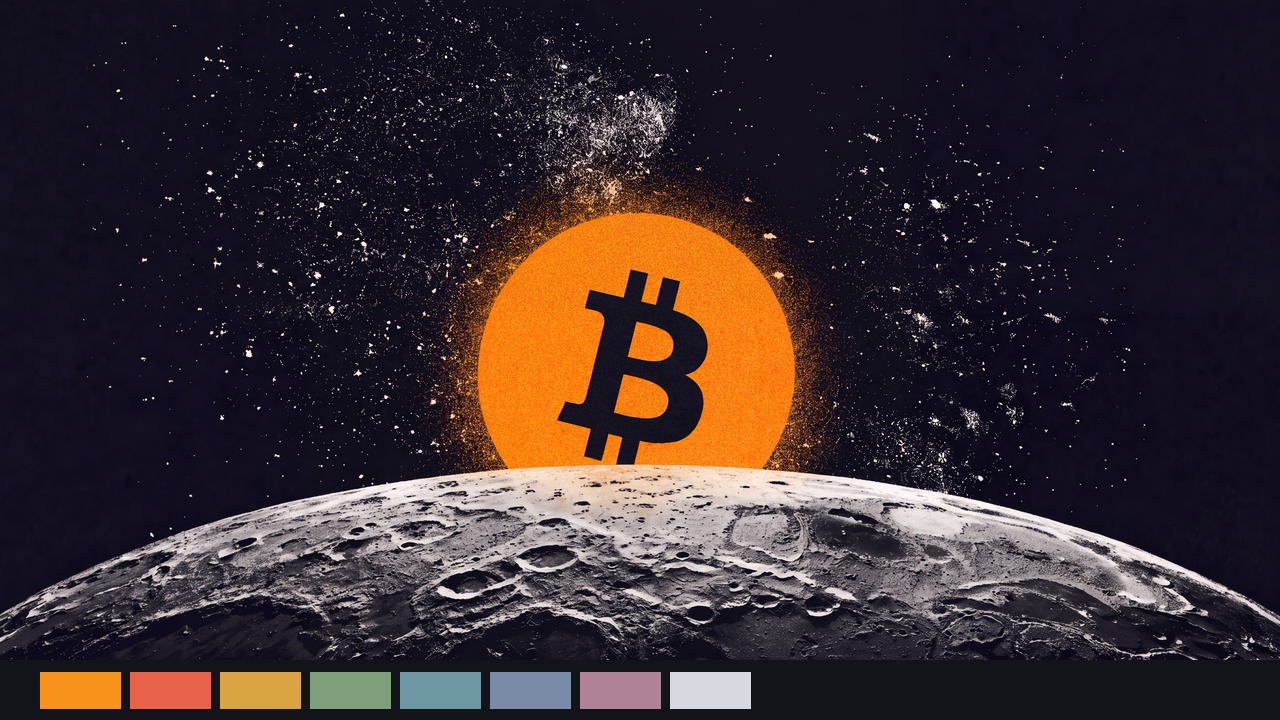
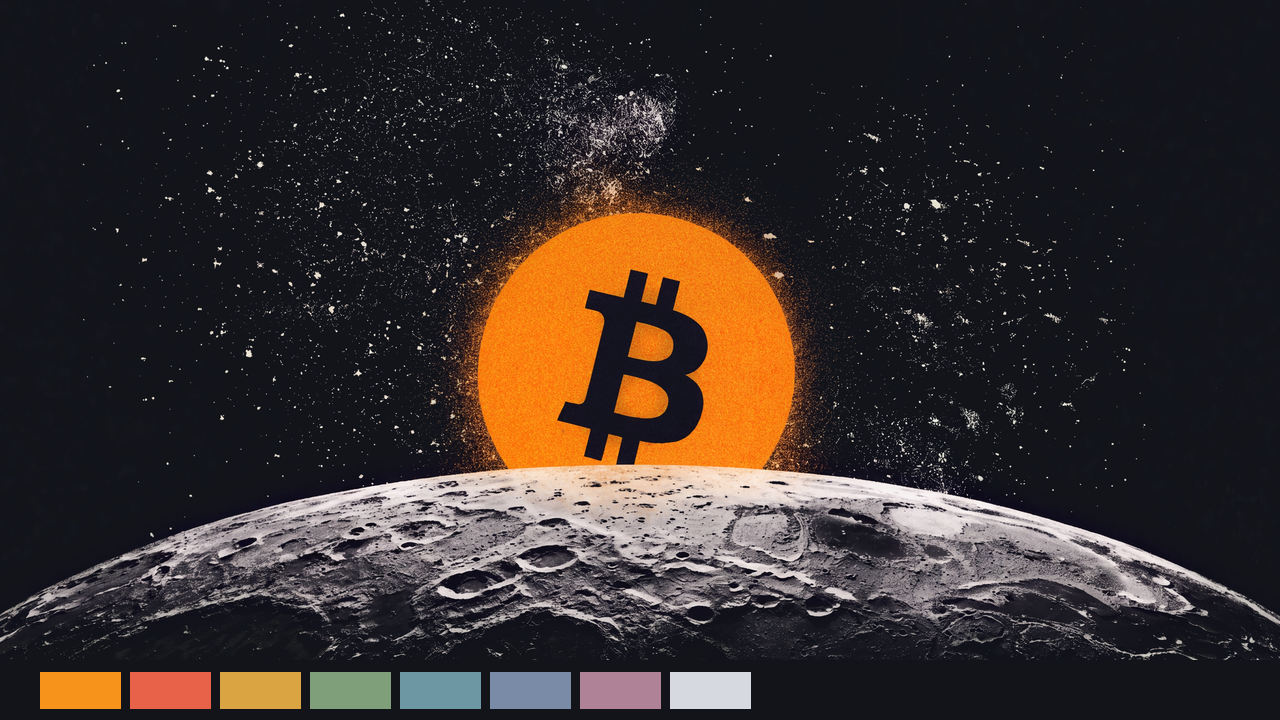
feat(wallpapers): even dark sky for OLED
even-sky.sh splits each wallpaper into a wide-blur low-frequency layer and
the high-frequency rest; where the low-frequency luminance is dark it is
replaced by flat #12141a (blending back above 35%), bright stars and dust
are kept everywhere and dark speckle only inside bright content. Removes
the mottled charcoal and the faint patches left by the generation passes.

Claude-Session: https://claude.ai/code/session_01UT1S32i88jEjdjDRz892aP

diff --git a/README.md b/README.md
@@ -31,6 +31,9 @@ omarchy theme set bitcoin-frontier
   when the theme lives in `~/.config/omarchy/themes` by hand; Omarchy drops
   `*.lua` from themes installed with `omarchy theme install` and regenerates
   them from `colors.toml`.
+- `even-sky.sh` — flattens the mottled charcoal in dark sky areas to one even
+  `#12141a` (OLED-friendly) while keeping stars, nebula, moon and coin; run
+  after `refine-4k.sh`.
 - `refine-4k.sh` — how the wallpapers were made (ppq.ai image models, then
   ImageMagick). Needs a ppq.ai key in the keyring; not needed to use the theme.
 
